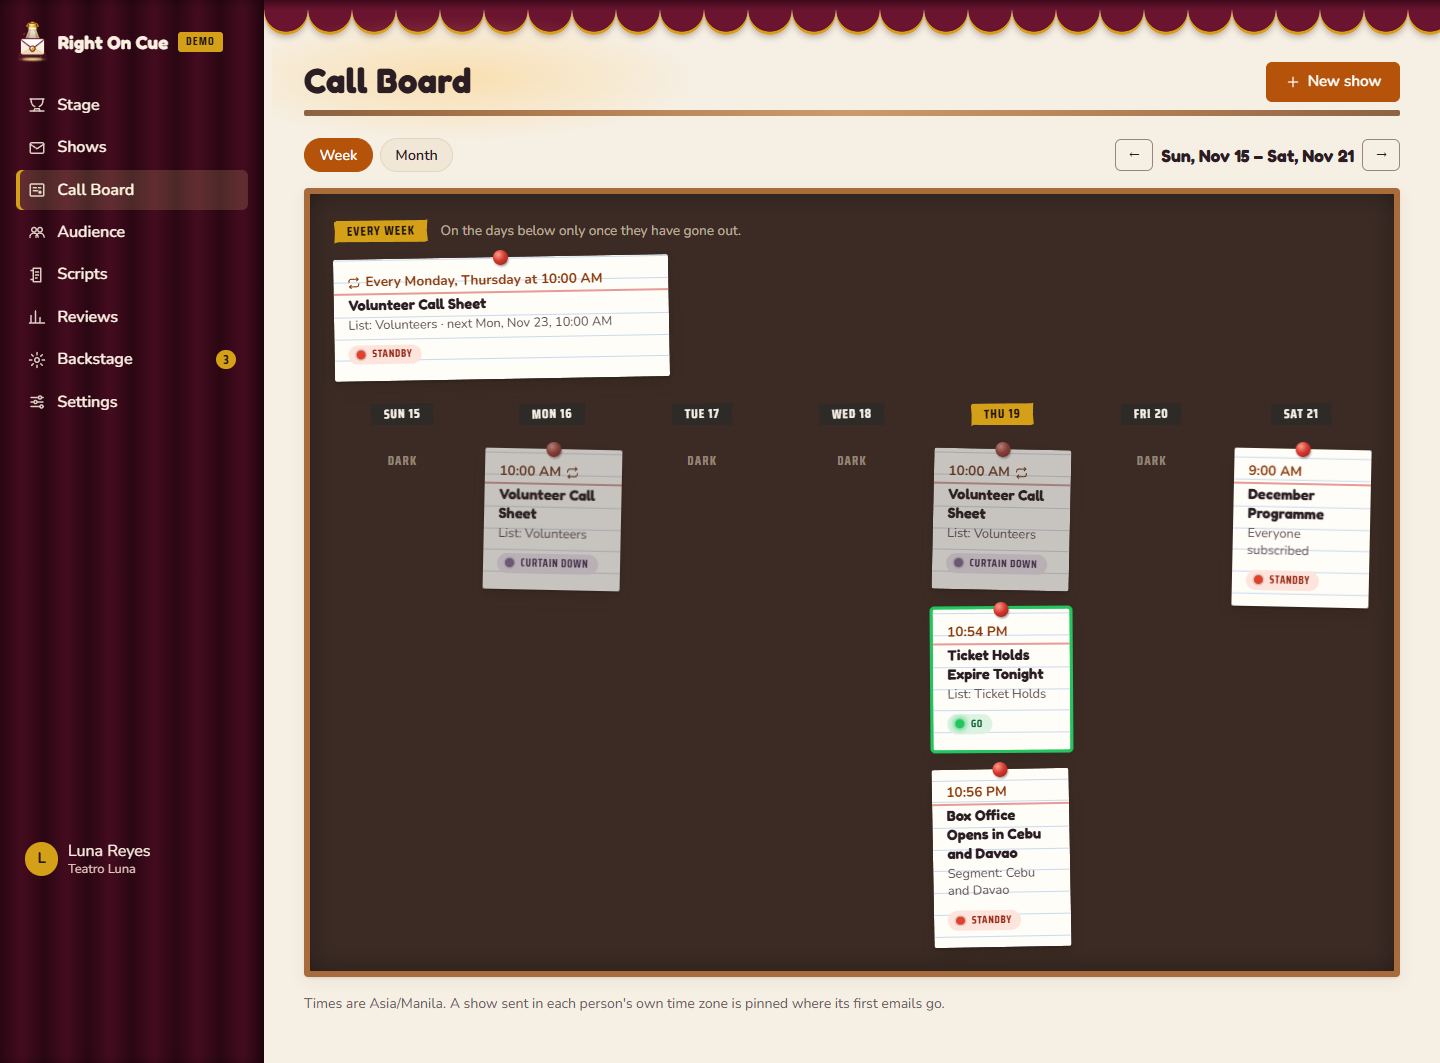
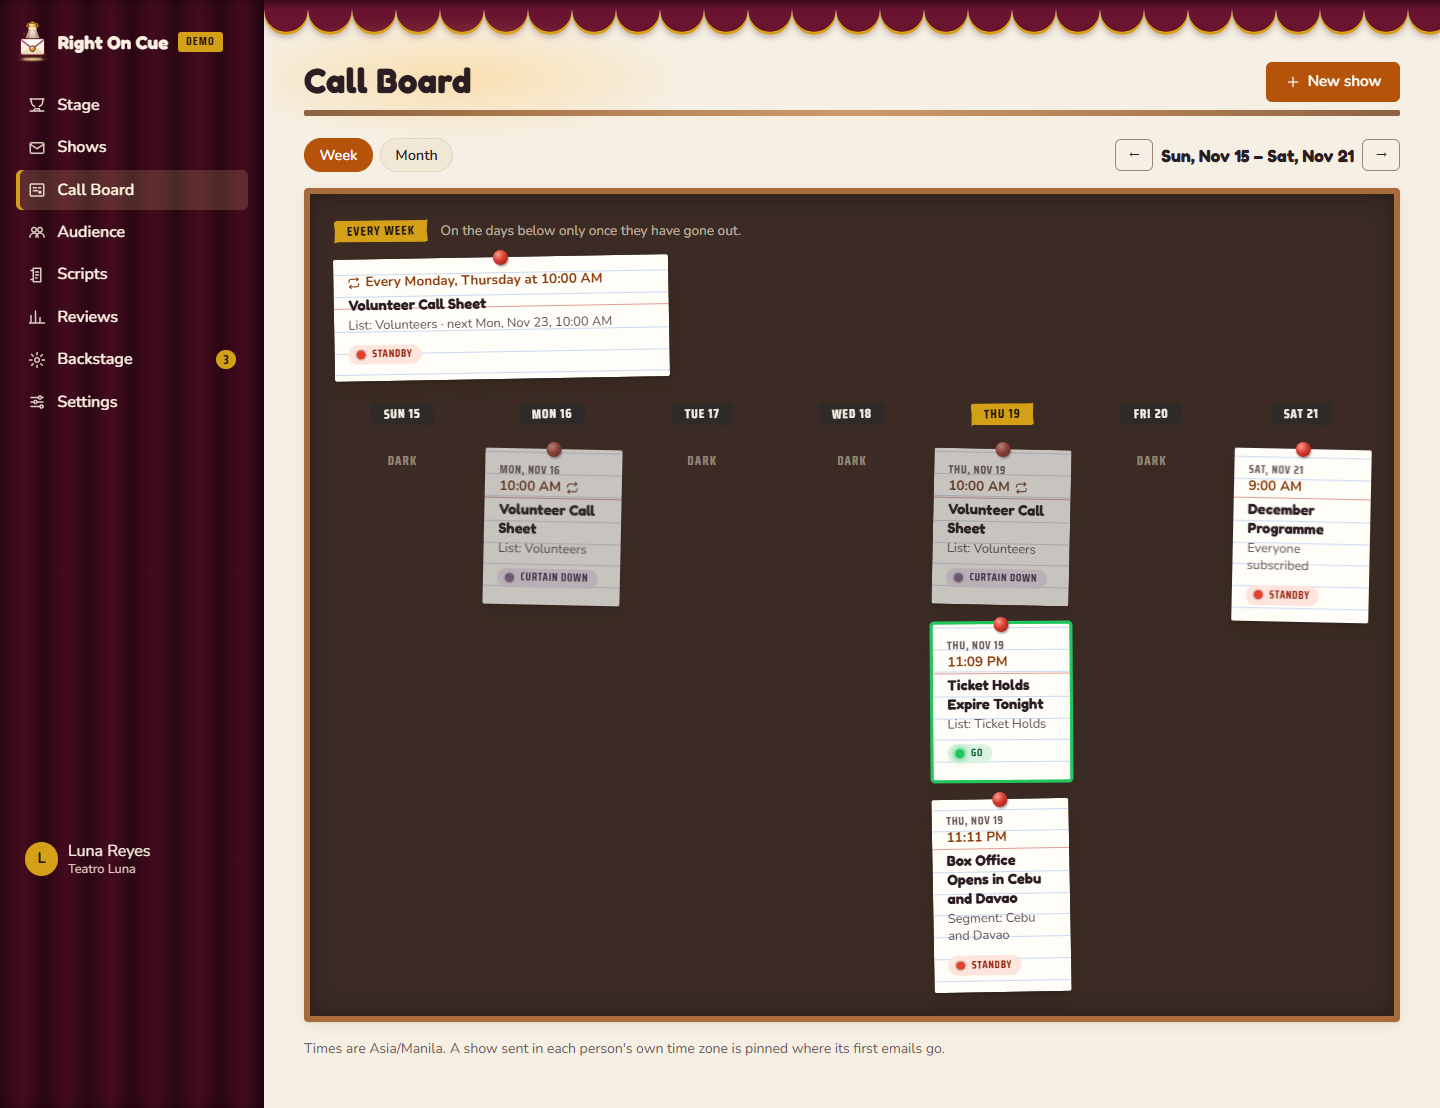
Open a weekly show's own performance from its Call Board card
A weekly show has a card on each day it went out, but every card opened
the show itself, whose page shows its NEXT time (Standby, Mon Nov 23)
and its latest run (Thu Nov 19). So the Mon Nov 16 card opened a page
with other days on it.

- Board cards show their date above the time (the red rule moves down
  a line on board cards to make room).
- A past run's card links to /shows/<id>?run=<number>. The show page
  then says "Showing performance 4 of 5, which went out Mon, Nov 16,
  10:00 AM. Show the newest", shows that run's meter, and marks it in
  the performance list (added if older than the newest five). Each
  performance in the list links to its own view. The live meter stays
  still while an older run is shown.
- Results says "All 5 performances together." when there are several.

README: Call Board text updated, new picture show-run.png, Call Board
week picture retaken. A test checks the links, the note and the mark.

diff --git a/oncue/static/style.css b/oncue/static/style.css
@@ -646,6 +646,10 @@ a.chip:hover { border-color: var(--control-border); }
 .key-waiting::before { background: var(--surface-soft); border: 1px solid var(--control-border); }
 .perf-list { list-style: none; padding: 0; margin: .9rem 0 0; display: grid; gap: .9rem; }
 .perf-list h3 { font-size: .95rem; }
+.perf-list li.is-chosen { margin-left: -.75rem; padding: .45rem .75rem; border-radius: var(--radius); background: var(--surface-soft); box-shadow: inset 4px 0 0 var(--gold); }
+.results-scope { margin: -.4rem 0 .8rem; }
+.run-note { display: flex; align-items: flex-start; gap: .5rem; margin: .9rem 0 .6rem; padding: .6rem .8rem; border-radius: var(--radius); background: var(--surface-soft); font-size: .92rem; }
+.run-note svg { flex: 0 0 auto; margin-top: .2rem; color: var(--accent); }
 .dial-grid { display: grid; gap: 1rem; grid-template-columns: repeat(auto-fit, minmax(min(100%, 13rem), 1fr)); }
 .dial-grid input { max-width: 8rem; }
 input[type="number"] { max-width: 12rem; }
@@ -687,8 +691,16 @@ input[type="number"] { max-width: 12rem; }
 .board-day-head { margin: 0 0 .2rem; font: inherit; text-align: center; }
 .board-nothing { text-align: center; color: rgb(255 240 220 / .45); font: 700 .78rem/1 var(--font-label); letter-spacing: .1em; text-transform: uppercase; padding-top: .4rem; }
 .board-card { padding-top: .9rem; }
+/* Board cards have a date line above the time, so their red rule sits a line lower. */
+.board-card {
+  background-image:
+    linear-gradient(180deg, transparent 3.05rem, var(--card-margin) 3.05rem, var(--card-margin) 3.15rem, transparent 3.15rem),
+    repeating-linear-gradient(180deg, transparent 0 1.3rem, var(--card-rule) 1.3rem, var(--card-rule) calc(1.3rem + 1px));
+  background-position: 0 0, 0 3.2rem;
+}
 .board-card .cue-card-title { font-size: .92rem; overflow-wrap: anywhere; }
 .board-card .cue-card-time { margin-top: 0; display: flex; align-items: center; gap: .3rem; }
+.board-card .cue-card-date { display: block; font: 700 .72rem/1.3 var(--font-label); letter-spacing: .06em; text-transform: uppercase; color: #6b5a5f; }
 .board-stamp { display: block; margin-top: .5rem; }
 .board-stamp .cue { font-size: .68rem; }
 .board-card.is-done { opacity: .72; filter: saturate(.6); }

diff --git a/oncue/templates/_show_progress.html b/oncue/templates/_show_progress.html
@@ -1,16 +1,18 @@
-{# A show's progress: its newest performances, each with a meter. show.html makes it live. #}
+{# A show's progress: the meter of its newest performance (or of the one opened from the Call Board,
+   ?run=), and its newest performances. show.html makes it live. #}
+{% from "_icons.html" import icon %}
 {% if performances %}
   <div class="show-progress">
-    {% for perf, meter in performances %}
-      {% if loop.first %}
-        {% include "_meter.html" %}
-      {% endif %}
-    {% endfor %}
-    {% if estimate %}<p class="muted small top-gap">At {{ g.workspace.send_rate|round(1) }} a second and {{ g.workspace.daily_cap|number }} a day, the rest should be out by <strong>{{ estimate|nice_datetime }}</strong>.</p>{% endif %}
+    {% if chosen_run and performance_count > 1 %}
+      <p class="run-note">{{ icon('repeat', 16) }} <span>Showing performance {{ chosen_run.number }} of {{ performance_count }}, which went out <strong>{{ chosen_run.starts_at|nice_datetime }}</strong>.
+        <a href="{{ url_for('shows.page', show_id=show.id) }}">Show the newest</a></span></p>
+    {% endif %}
+    {% with meter=main_meter %}{% include "_meter.html" %}{% endwith %}
+    {% if estimate and not past_run %}<p class="muted small top-gap">At {{ g.workspace.send_rate|round(1) }} a second and {{ g.workspace.daily_cap|number }} a day, the rest should be out by <strong>{{ estimate|nice_datetime }}</strong>.</p>{% endif %}
     {% if performance_count > 1 %}
       <ul class="perf-list">
         {% for perf, meter in performances %}
-          <li><h3>Performance {{ perf.number }} <span class="muted small">{{ perf.starts_at|nice_datetime }}</span></h3>
+          <li{% if perf is sameas chosen_run %} class="is-chosen" aria-current="true"{% endif %}><h3><a href="{{ url_for('shows.page', show_id=show.id, run=perf.number) }}">Performance {{ perf.number }}</a> <span class="muted small">{{ perf.starts_at|nice_datetime }}</span></h3>
             <p class="muted small">{{ meter.gone|number }} sent of {{ meter.total|number }}{% if meter.trouble %}, {{ meter.trouble }} with trouble{% endif %}</p></li>
         {% endfor %}
       </ul>

diff --git a/oncue/templates/_board_card.html b/oncue/templates/_board_card.html
@@ -1,6 +1,7 @@
-{# One cue card on the Call Board. #}
+{# One cue card on the Call Board. A past run of a weekly show opens that run, not the show's next time. #}
 {% from "_icons.html" import icon %}
-<a class="cue-card board-card{% if card.status == 'curtain_down' %} is-done{% endif %}{% if card.status in ('go', 'hold') %} is-live{% endif %}" href="{{ url_for('shows.page', show_id=card.show.id) }}">
+<a class="cue-card board-card{% if card.status == 'curtain_down' %} is-done{% endif %}{% if card.status in ('go', 'hold') %} is-live{% endif %}" href="{{ url_for('shows.page', show_id=card.show.id, run=card.run) }}">
+  <span class="cue-card-date">{{ card.at|short_date }}</span>
   <span class="cue-card-time">{{ card.at|clock }}{% if card.repeat %} {{ icon('repeat', 13) }}<span class="visually-hidden"> (weekly)</span>{% endif %}</span>
   <strong class="cue-card-title">{{ card.show.name }}</strong>
   <span class="cue-card-meta">{{ card.label }}</span>

diff --git a/oncue/templates/show.html b/oncue/templates/show.html
@@ -18,7 +18,7 @@
     <div class="stack">
       {# While the show is on Go, or due on Standby within 10 minutes, app.js watches progress.json
          and moves the meter; when the cue changes, the page reloads. #}
-      {% set watch = show.status == 'go' or (show.status == 'standby' and show.send_at <= now + soon) %}
+      {% set watch = (show.status == 'go' or (show.status == 'standby' and show.send_at <= now + soon)) and not past_run %}
       <section class="card show-cue{% if show.status in ('go', 'hold') %} marquee{% if show.status == 'go' %} is-live{% endif %}{% endif %}"
         {% if watch %} data-live-url="{{ url_for('shows.progress_json', show_id=show.id) }}" data-live-status="{{ show.status }}"{% endif %}>
         <div class="card-head"><h2>Cue</h2>{{ show_status(show.status) }}</div>

diff --git a/oncue/templates/_show_results.html b/oncue/templates/_show_results.html
@@ -1,6 +1,7 @@
 {# What happened after the emails went out: the delivery news, counted once each. #}
 <section class="card" id="results">
   <div class="card-head"><h2>Results</h2><a class="head-link" href="{{ url_for('shows.emails_page', show_id=show.id) }}">Every email &rarr;</a></div>
+  {% if performance_count is defined and performance_count > 1 %}<p class="muted small results-scope">All {{ performance_count }} performances together.</p>{% endif %}
   {% set r = results %}
   <div class="result-grid">
     <div class="result"><p class="stat-label">Sent</p><p class="stat-value">{{ r.sent|number }}</p><p class="stat-note">of {{ r.total|number }}{% if r.dropped %}; {{ r.dropped }} dropped{% endif %}</p></div>

diff --git a/tests/test_smart.py b/tests/test_smart.py
@@ -251,6 +251,34 @@ def test_the_call_board(app, owner):
     assert client.get("/call-board/?week=-1").status_code == 200
 
 
+def test_a_weekly_card_opens_its_own_performance(app, owner):
+    """A weekly show's past runs are separate cards. Each opens that run (its date, its meter,
+    marked in the list), not the show's next time, which is a different day."""
+    client, workspace_id = owner
+    weekly = make_show(app, workspace_id)
+    with app.app_context():
+        s = db.session()
+        show = s.get(Show, weekly)
+        smart.schedule_weekly(s, show, s.get(Workspace, workspace_id), [0, 1, 2, 3, 4, 5, 6], time(10, 0), utcnow())
+        today = smart.week_start(to_zone(utcnow(), "Asia/Manila").date())
+        for number, days in ((1, 0), (2, 1)):  # Sunday and Monday of this week, 10:00 AM Manila
+            moment = from_zone(datetime.combine(today + timedelta(days=days), time(10, 0)), "Asia/Manila")
+            s.add(Performance(workspace_id=workspace_id, show_id=weekly, number=number, status="done",
+                              starts_at=moment, finished_at=moment, fanned_out=True))
+        s.commit()
+    board = text(client.get("/call-board/"))
+    links = re.findall(rf'href="/shows/{weekly}\?run=(\d)"', board)
+    assert sorted(links) == ["1", "2"]
+    sunday = f"{today:%a}, {today:%b} {today.day}"
+    assert sunday in board  # each card says its date
+    page = text(client.get(f"/shows/{weekly}?run=1"))
+    assert f"Showing performance 1 of 2, which went out <strong>{sunday}, 10:00 AM" in page
+    assert re.search(r'<li class="is-chosen" aria-current="true"><h3><a href="[^"]*run=1">Performance 1', page)
+    assert "All 2 performances together." in page
+    newest = text(client.get(f"/shows/{weekly}"))
+    assert "Showing performance" not in newest and "is-chosen" not in newest
+
+
 def test_weeks_run_sunday_to_saturday(app, owner):
     """Like a wall calendar: Sun Mon Tue Wed Thu Fri Sat, on the board and on the show page."""
     for day in (date(2026, 11, 15), date(2026, 11, 18), date(2026, 11, 21)):  # Sunday, Wednesday, Saturday

diff --git a/oncue/views/shows.py b/oncue/views/shows.py
@@ -347,7 +347,13 @@ def progress(s, show):
     """The show page's progress panel: each performance (newest first) with its meter,
     an estimate of when it finishes while it is sending, and the tests sent."""
     found = performances_of(s, show)
-    rows = [(perf, sending.meter(sending.counts(s, show.id, perf.id))) for perf in found[:5]]
+    # ?run=3: one performance of a weekly show, opened from its Call Board card. Its meter is the
+    # one shown, and it is marked in the list (added to it if it is older than the newest five).
+    wanted = request.args.get("run", type=int)
+    chosen = next((perf for perf in found if perf.number == wanted), None)
+    listed = found[:5] + ([chosen] if chosen is not None and chosen not in found[:5] else [])
+    rows = [(perf, sending.meter(sending.counts(s, show.id, perf.id))) for perf in listed]
+    main_meter = next((meter for perf, meter in rows if perf is chosen), rows[0][1] if rows else None)
     estimate = None
     if rows and show.status == shows.GO:
         waiting = rows[0][1]["waiting"] + rows[0][1]["retrying"]
@@ -360,6 +366,9 @@ def progress(s, show):
         latest = found[0] if found else None
         ab = {"perf": latest, "numbers": smart.ab_numbers(s, latest.id) if latest else None}
     return {"progress_template": "_show_progress.html", "performances": rows, "performance_count": len(found),
+            "main_meter": main_meter, "chosen_run": chosen,
+            # An older run is on show: the live meter (which follows the newest run) stays still.
+            "past_run": chosen is not None and chosen is not found[0],
             "estimate": estimate, "tests": tests, "ab": ab, "weekdays": [(day, smart.WEEKDAYS[day]) for day in smart.WEEK_ORDER],
             "repeat_label": smart.describe_repeat(show) if show.repeats else None,
             "repeat_days": smart.days_of(show),

diff --git a/oncue/views/callboard.py b/oncue/views/callboard.py
@@ -26,6 +26,7 @@ class Card:
     status: str
     label: str
     repeat: bool = False
+    run: int | None = None  # a weekly show's performance number: its card opens that run
 
 
 @bp.before_request
@@ -70,7 +71,8 @@ def cards_between(s, workspace, first_day, last_day):
                          .where(Performance.workspace_id == workspace.id, Performance.status == "done",
                                 Performance.starts_at >= start, Performance.starts_at < end)).all()
     for perf, show in finished:
-        found.append(Card(show, perf.starts_at, shows.CURTAIN_DOWN, label(show), show.repeats))
+        found.append(Card(show, perf.starts_at, shows.CURTAIN_DOWN, label(show), show.repeats,
+                          perf.number if show.repeats else None))
     by_day = {}
     for card in sorted(found, key=lambda card: card.at):
         by_day.setdefault(to_zone(card.at, zone_name).date(), []).append(card)

diff --git a/docs/take_screenshots.py b/docs/take_screenshots.py
@@ -89,6 +89,9 @@ def main():
         shot(page, "show-builder.png")
         page.goto(BASE + "/call-board/")
         shot(page, "call-board.png")
+        page.locator('a.board-card[href*="run="]').first.click()  # a past run of the weekly show
+        page.wait_for_load_state("networkidle")
+        shot(page, "show-run.png", full=False)
         page.goto(BASE + "/call-board/?view=month")
         shot(page, "call-board-month.png")
         page.goto(BASE + "/audience/")

diff --git a/README.md b/README.md
@@ -49,11 +49,15 @@ Before something big (Start now, Delete, Resend), the app asks first, in its own
 
 ### The Call Board
 
-The schedule as cue cards pinned on a cork board, by week or by month. A weekly show has a card on every day it goes.
+The schedule as cue cards pinned on a cork board, by week or by month, Sunday to Saturday. Each card shows its date and time. A weekly show has one card in the **Every Week** lane, and a card on each day it has already gone out.
 
 ![The Call Board, week](docs/screenshots/call-board.png)
 
 ![The Call Board, month](docs/screenshots/call-board-month.png)
+
+A weekly show sends many times; each time is a **performance**. Its card for a past day opens that performance: the page says which one and when it went out, shows its numbers, and marks it in the list. The time at the top of the page is still the show's **next** time.
+
+![One performance of a weekly show, opened from its card](docs/screenshots/show-run.png)
 
 ### Audience
 
